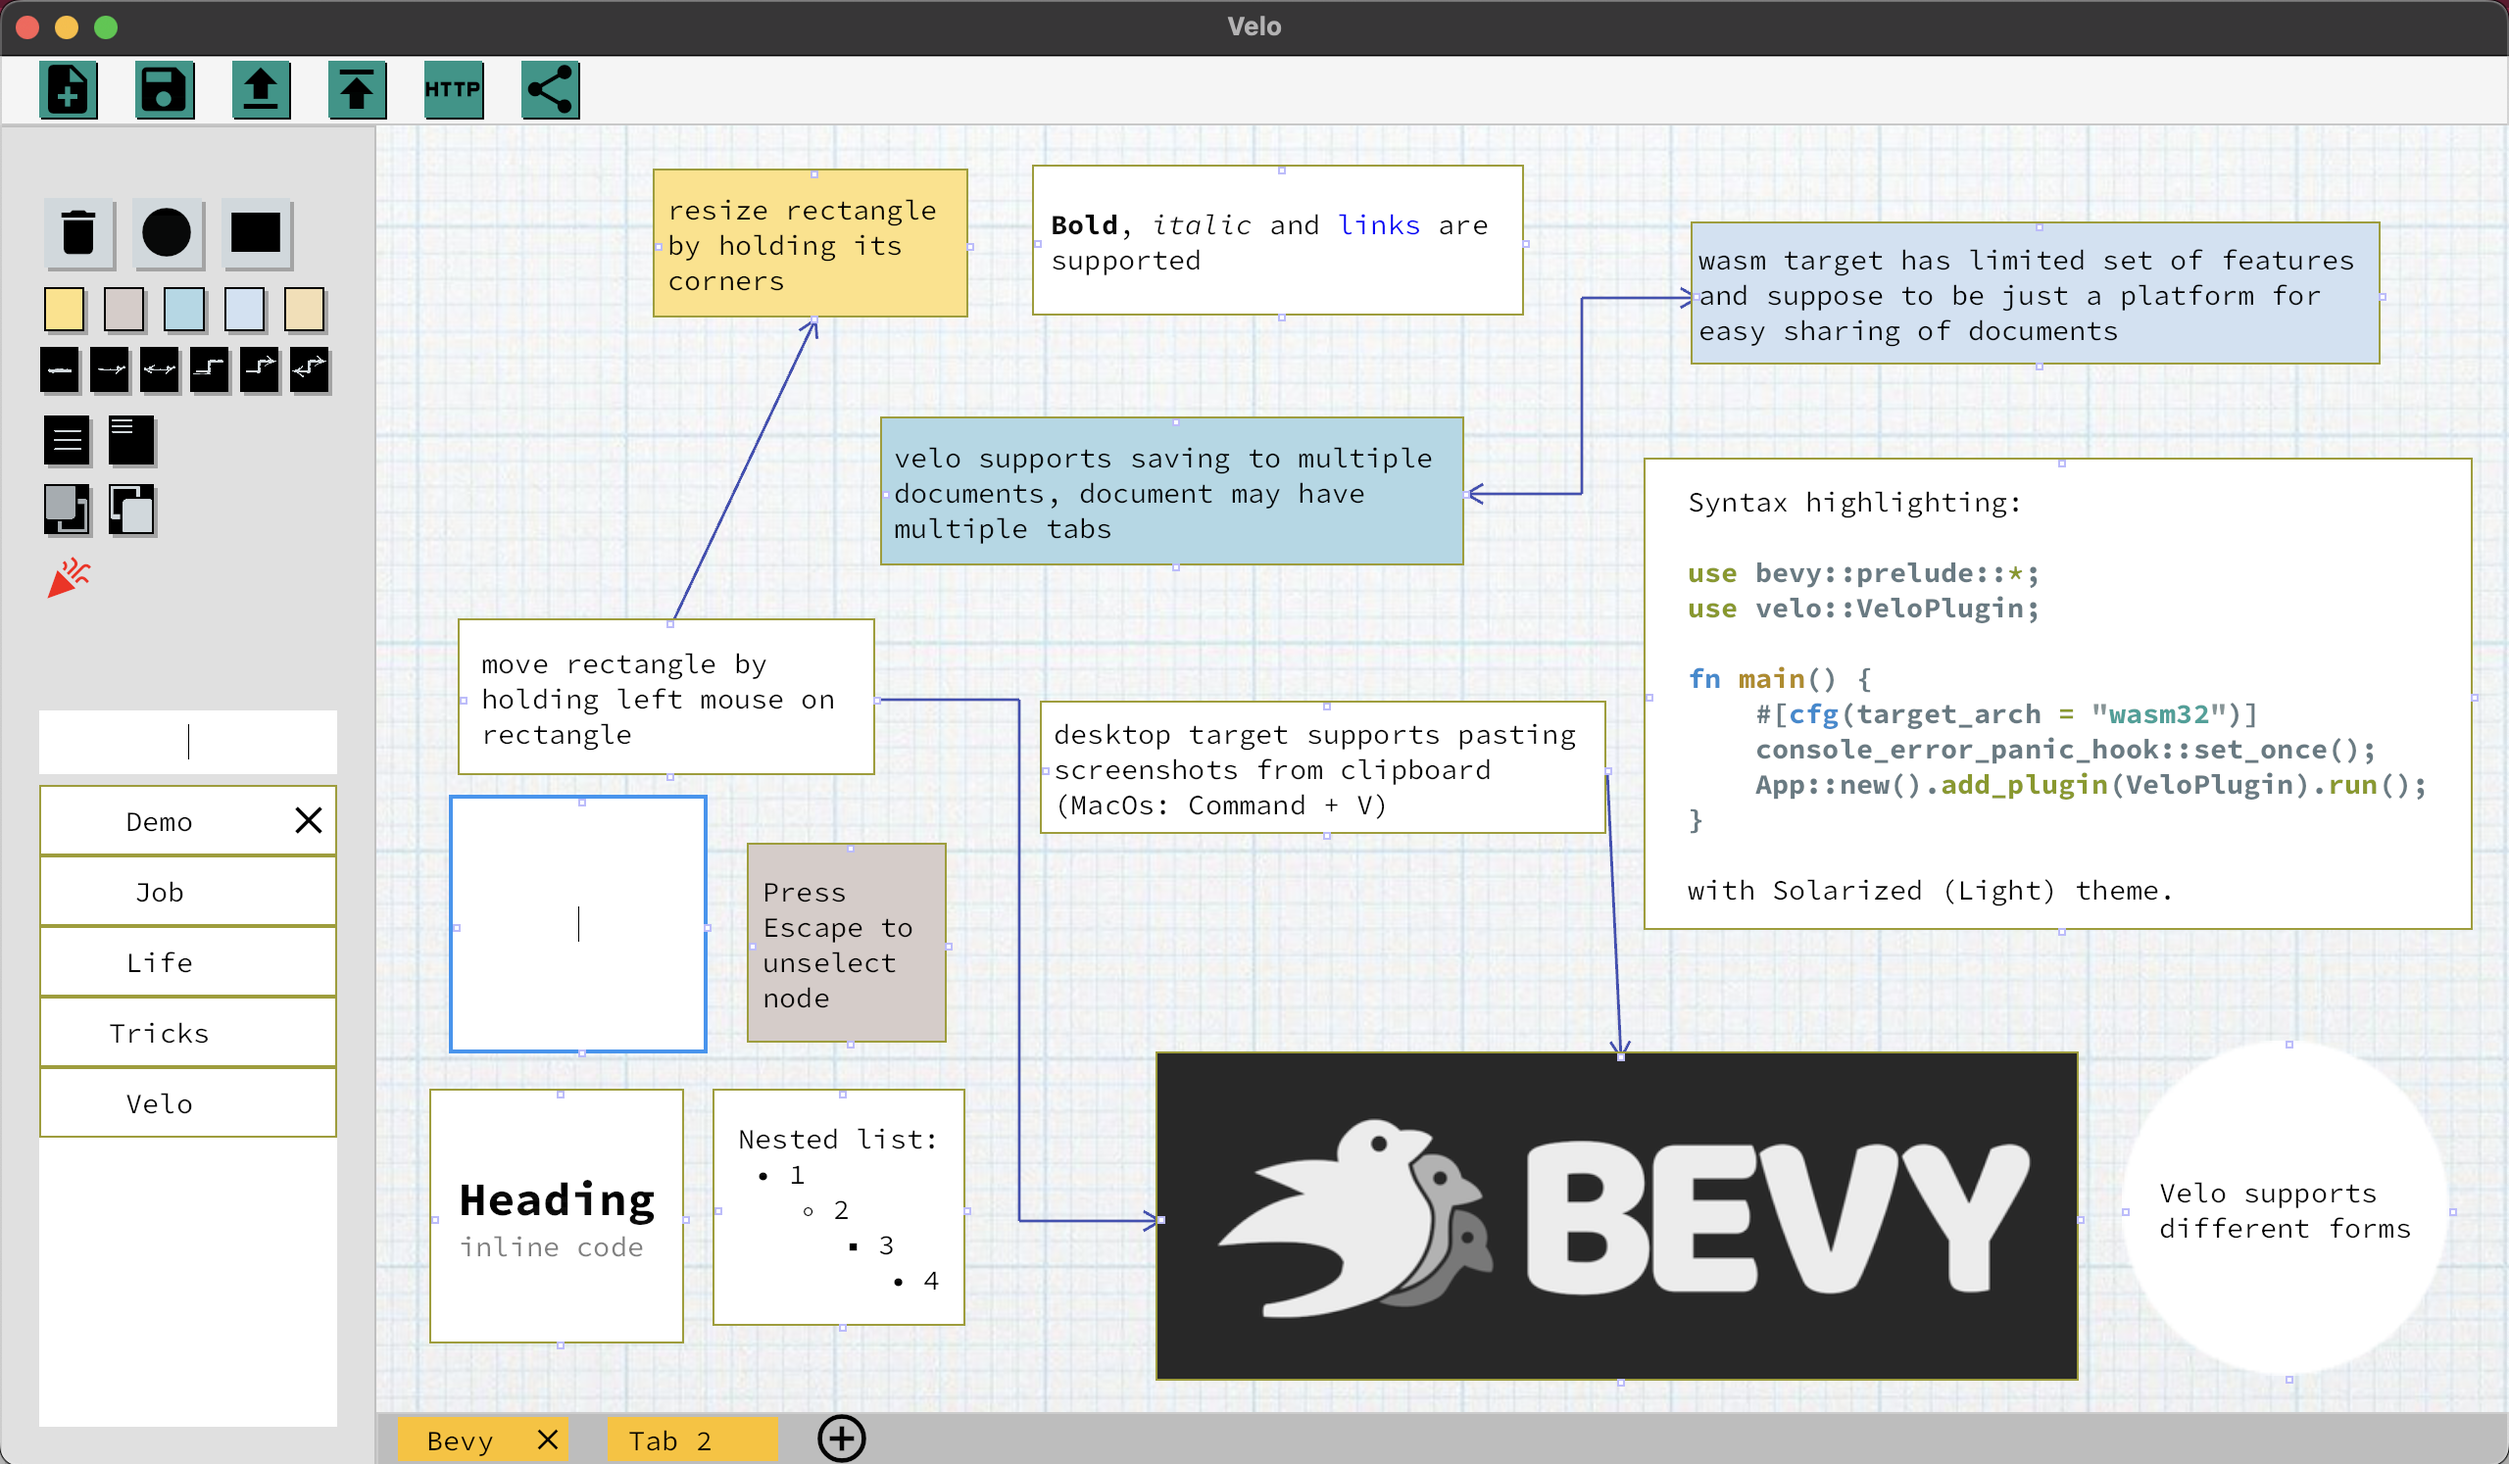
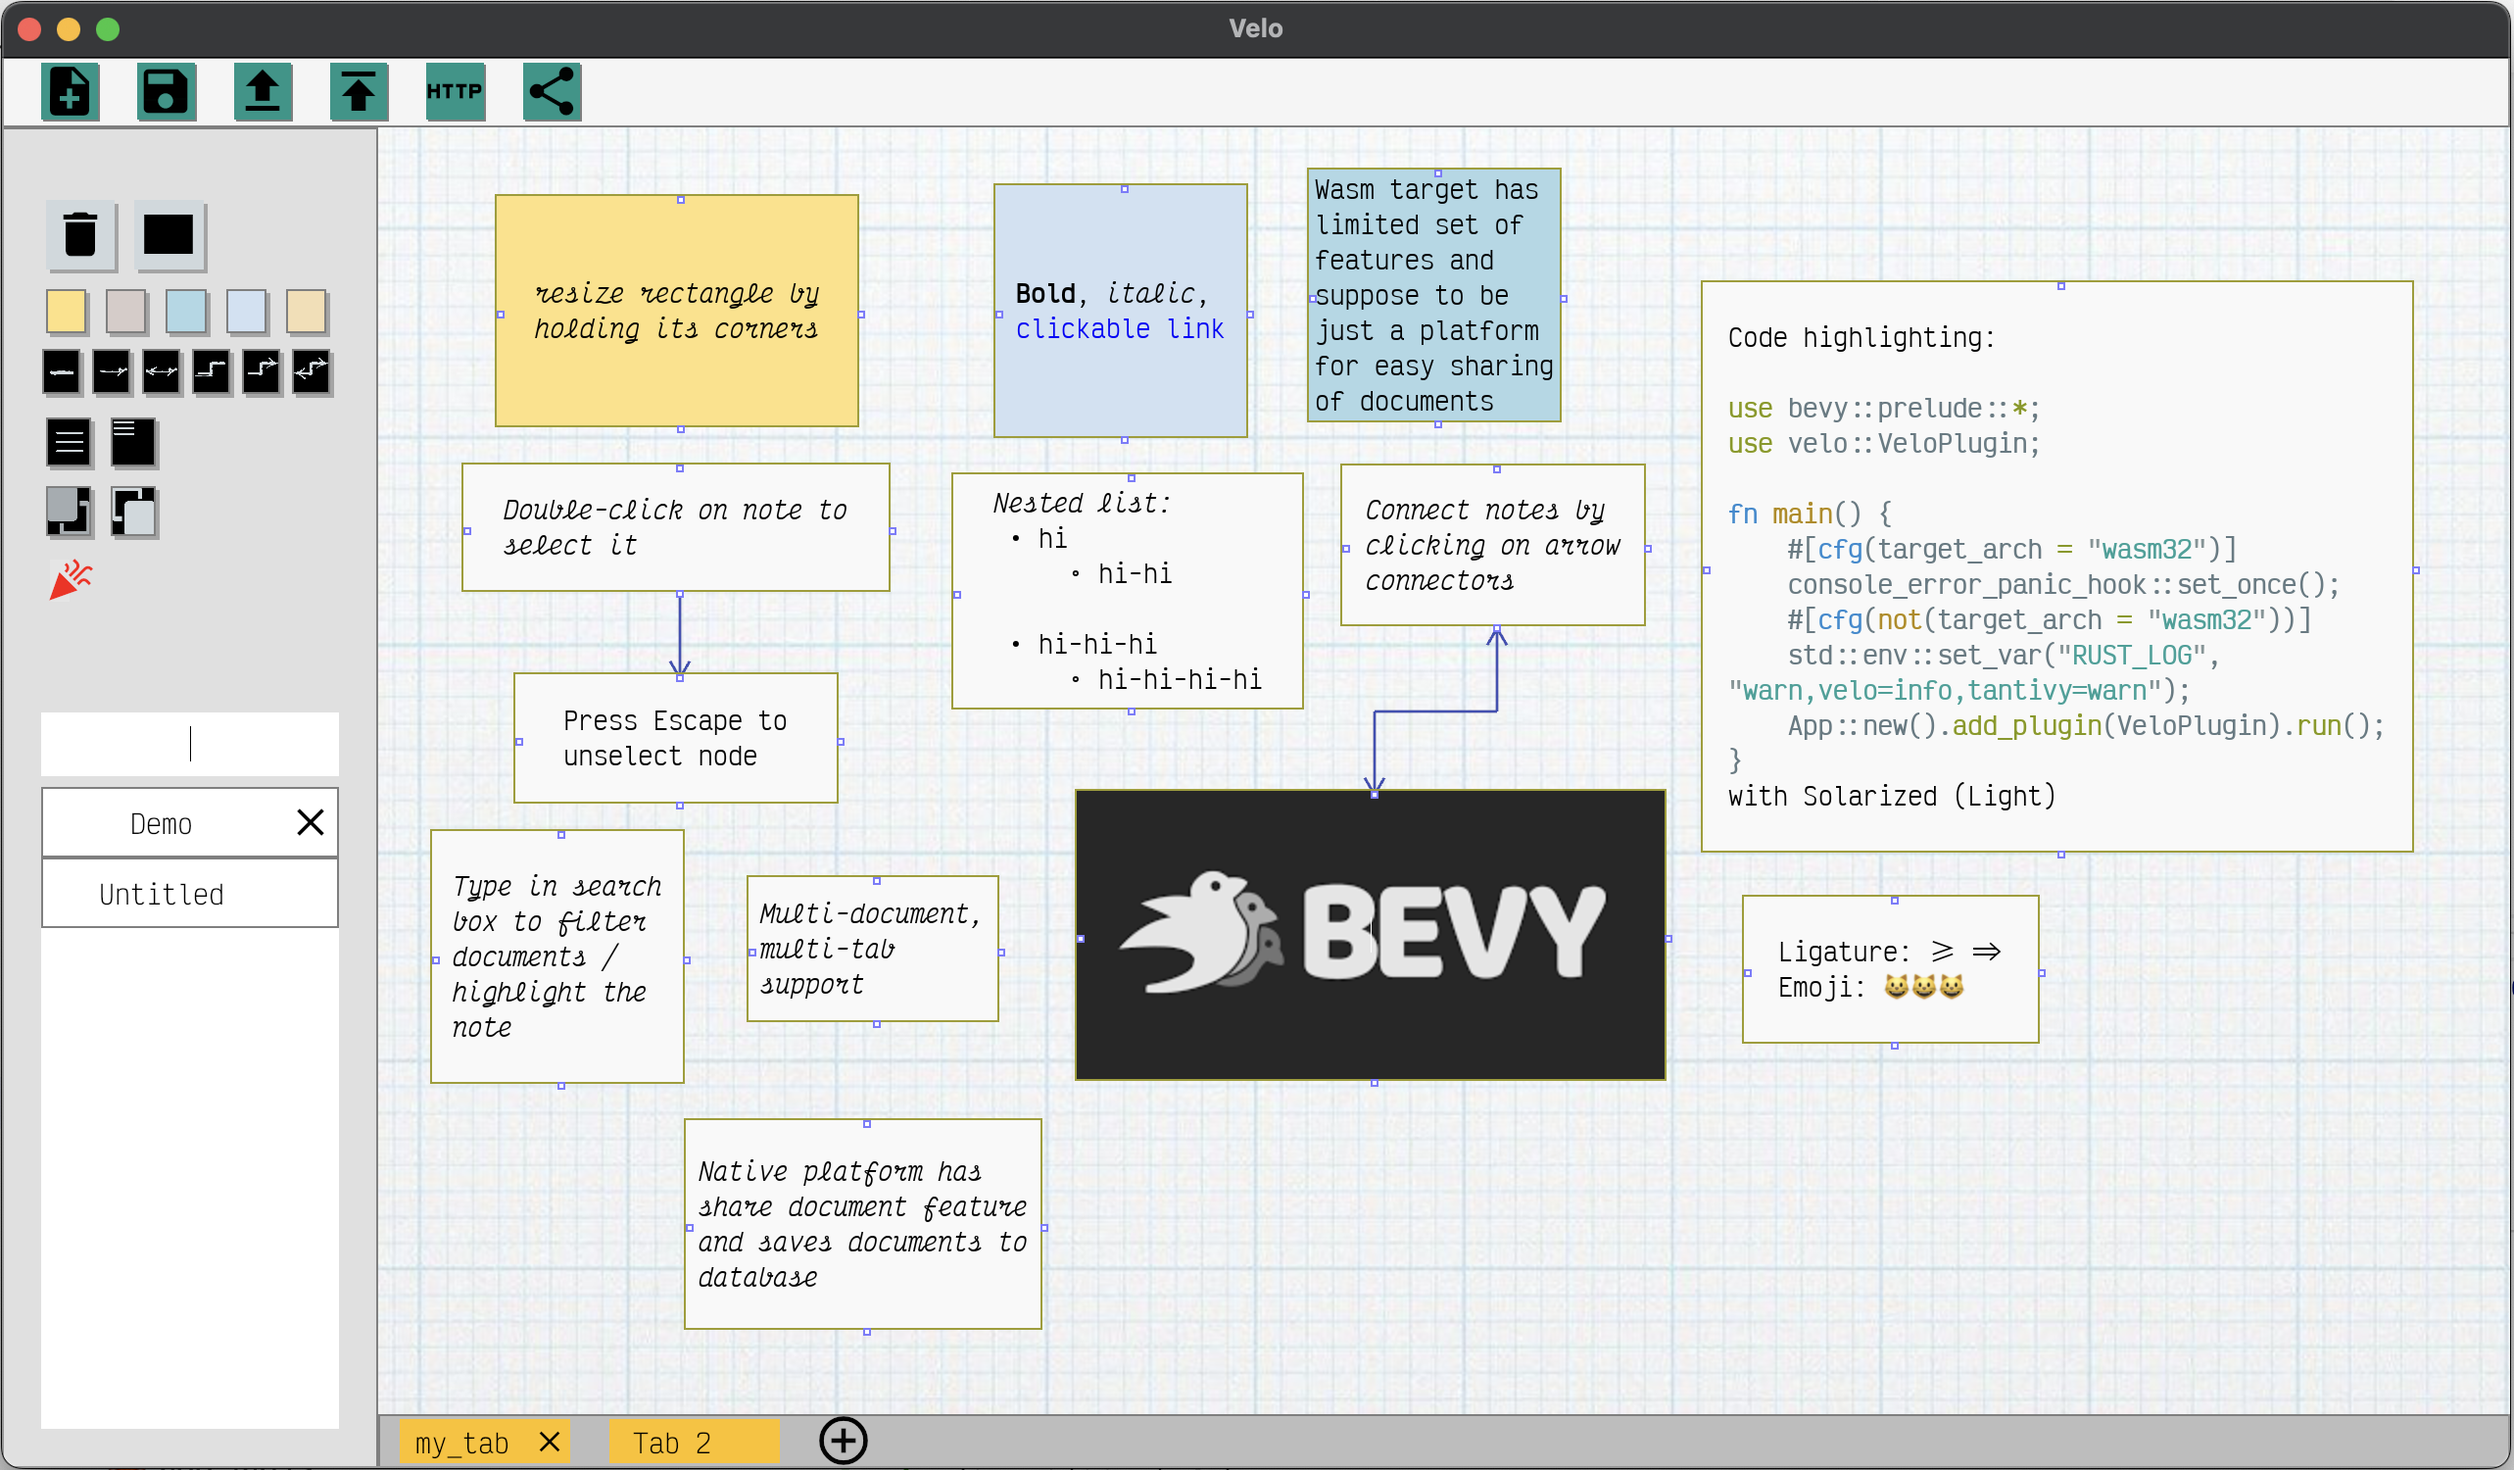
finish bevy_markdown refactoring

diff --git a/src/ui_plugin/ui_helpers/spawn_node.rs b/src/ui_plugin/ui_helpers/spawn_node.rs
@@ -88,6 +88,72 @@ pub fn spawn_node(
     commands
         .entity(button)
         .insert(Outline::all(outline_color, Val::Px(1.)));
+
+    let mut attrs = cosmic_text::Attrs::new();
+    attrs = attrs.family(cosmic_text::Family::Name(theme.font_name.as_str()));
+    attrs = attrs.color(bevy_color_to_cosmic(theme.font));
+    let (text, span_metadata) = match item_meta.is_active {
+        true => (CosmicText::OneStyle(item_meta.text.clone()), vec![]),
+        false => {
+            let markdown_theme = BevyMarkdownTheme {
+                code_theme: theme.code_theme.clone(),
+                code_default_lang: theme.code_default_lang.clone(),
+                link: bevy_color_to_cosmic(theme.link),
+                inline_code: bevy_color_to_cosmic(theme.inline_code),
+            };
+            let markdown_lines = generate_markdown_lines(BevyMarkdown {
+                text: item_meta.text.clone(),
+                attrs: AttrsOwned::new(attrs),
+                markdown_theme,
+            })
+            .expect("should handle markdown convertion");
+            (
+                CosmicText::MultiStyle(markdown_lines.lines),
+                markdown_lines.span_metadata,
+            )
+        }
+    };
+
+    let cosmic_edit_meta = CosmicEditMeta {
+        text,
+        font_system_handle: cosmic_font_handle,
+        text_pos: to_cosmic_text_pos(item_meta.text_pos.clone()),
+        size: Some((
+            convert_from_val_px(item_meta.size.0),
+            convert_from_val_px(item_meta.size.1),
+        )),
+        node: CosmicNode::Ui,
+        metrics: CosmicMetrics {
+            font_size: theme.font_size,
+            line_height: theme.line_height,
+            scale_factor,
+        },
+        bg: item_meta.bg_color,
+        bg_image: image,
+        readonly: !item_meta.is_active,
+        attrs: AttrsOwned::new(attrs),
+    };
+    let cosmic_edit = spawn_cosmic_edit(commands, cosmic_fonts, cosmic_edit_meta);
+    commands.entity(cosmic_edit).insert(RawText {
+        id: item_meta.id,
+        last_text: item_meta.text.clone(),
+    });
+    commands.entity(button).add_child(cosmic_edit);
+
+    match item_meta.is_active {
+        true => {
+            commands.insert_resource(ActiveEditor {
+                entity: Some(cosmic_edit),
+            });
+        }
+        false => {
+            commands.entity(cosmic_edit).insert(BevyMarkdownView {
+                id: item_meta.id,
+                span_metadata,
+            });
+        }
+    }
+
     let arrow_marker1 = commands
         .spawn((
             create_arrow_marker(50.0, 0., 0., 0.),
@@ -158,70 +224,6 @@ pub fn spawn_node(
     commands.entity(button).add_child(resize_marker3);
     commands.entity(button).add_child(resize_marker4);
 
-    let mut attrs = cosmic_text::Attrs::new();
-    attrs = attrs.family(cosmic_text::Family::Name(theme.font_name.as_str()));
-    attrs = attrs.color(bevy_color_to_cosmic(theme.font));
-    let (text, span_metadata) = match item_meta.is_active {
-        true => (CosmicText::OneStyle(item_meta.text.clone()), vec![]),
-        false => {
-            let markdown_theme = BevyMarkdownTheme {
-                code_theme: theme.code_theme.clone(),
-                code_default_lang: theme.code_default_lang.clone(),
-                link: bevy_color_to_cosmic(theme.link),
-                inline_code: bevy_color_to_cosmic(theme.inline_code),
-            };
-            let markdown_lines = generate_markdown_lines(BevyMarkdown {
-                text: item_meta.text.clone(),
-                attrs: AttrsOwned::new(attrs),
-                markdown_theme,
-            })
-            .expect("should handle markdown convertion");
-            (
-                CosmicText::MultiStyle(markdown_lines.lines),
-                markdown_lines.span_metadata,
-            )
-        }
-    };
-
-    let cosmic_edit_meta = CosmicEditMeta {
-        text,
-        font_system_handle: cosmic_font_handle,
-        text_pos: to_cosmic_text_pos(item_meta.text_pos.clone()),
-        size: Some((
-            convert_from_val_px(item_meta.size.0),
-            convert_from_val_px(item_meta.size.1),
-        )),
-        node: CosmicNode::Ui,
-        metrics: CosmicMetrics {
-            font_size: theme.font_size,
-            line_height: theme.line_height,
-            scale_factor,
-        },
-        bg: item_meta.bg_color,
-        bg_image: image,
-        readonly: !item_meta.is_active,
-        attrs: AttrsOwned::new(attrs),
-    };
-    let cosmic_edit = spawn_cosmic_edit(commands, cosmic_fonts, cosmic_edit_meta);
-    commands.entity(cosmic_edit).insert(RawText {
-        id: item_meta.id,
-        last_text: item_meta.text.clone(),
-    });
-    commands.entity(button).add_child(cosmic_edit);
-
-    match item_meta.is_active {
-        true => {
-            commands.insert_resource(ActiveEditor {
-                entity: Some(cosmic_edit),
-            });
-        }
-        false => {
-            commands.entity(cosmic_edit).insert(BevyMarkdownView {
-                id: item_meta.id,
-                span_metadata,
-            });
-        }
-    }
     commands.entity(top).add_child(button);
     top
 }

diff --git a/src/ui_plugin/systems/clickable_links.rs b/src/ui_plugin/systems/clickable_links.rs
@@ -40,13 +40,15 @@ pub fn clickable_links(
                                 let end = (x_start + glyph.x + glyph.w) / scale_factor;
                                 if pos.0 > start && pos.0 < end {
                                     let idx = glyph.metadata;
-                                    let text_span =
-                                        bevy_markdown_view.span_metadata.get(idx).unwrap();
-                                    if let Some(link) = text_span.link.clone() {
-                                        #[cfg(not(target_arch = "wasm32"))]
-                                        open::that(link.clone()).unwrap();
-                                        #[cfg(target_arch = "wasm32")]
-                                        open_url_in_new_tab(link.clone().as_str()).unwrap();
+                                    if let Some(text_span) =
+                                        bevy_markdown_view.span_metadata.get(idx)
+                                    {
+                                        if let Some(link) = text_span.link.clone() {
+                                            #[cfg(not(target_arch = "wasm32"))]
+                                            open::that(link.clone()).unwrap();
+                                            #[cfg(target_arch = "wasm32")]
+                                            open_url_in_new_tab(link.clone().as_str()).unwrap();
+                                        }
                                     }
                                 }
                             }

diff --git a/src/ui_plugin/systems/save.rs b/src/ui_plugin/systems/save.rs
@@ -128,14 +128,7 @@ pub fn save_tab(
     images: Res<Assets<Image>>,
     node_container_query: Query<(&Style, &Node), With<VeloNodeContainer>>,
     node_query: Query<
-        (
-            &VeloNode,
-            &UiImage,
-            &BackgroundColor,
-            &ZIndex,
-            &Parent,
-            &Style,
-        ),
+        (&VeloNode, &UiImage, &ZIndex, &Parent, &Style),
         (With<VeloNode>, Without<VeloNodeContainer>),
     >,
     arrows: Query<(&ArrowMeta, &Visibility), With<ArrowMeta>>,
@@ -167,14 +160,14 @@ pub fn save_tab(
     }
 
     let json_nodes = json["nodes"].as_array_mut().unwrap();
-    for (node, _, bg_color, z_index, parent, test_pos_style) in node_query.iter() {
-        for (raw_text, _) in text_query.iter() {
+    for (node, _, z_index, parent, test_pos_style) in node_query.iter() {
+        for (raw_text, cosmic_text) in text_query.iter() {
             if node.id == raw_text.id {
                 let (style, node_container): (&Style, &Node) =
                     node_container_query.get(parent.get()).unwrap();
                 let left = style.position.left;
                 let bottom = style.position.bottom;
-                let bg_color = bg_color.0;
+                let bg_color = cosmic_text.bg;
                 let z_index = match *z_index {
                     ZIndex::Local(v) => v,
                     _ => -1,

diff --git a/src/themes.rs b/src/themes.rs
@@ -51,7 +51,7 @@ pub fn velo_light() -> Theme {
     Theme {
         add_tab_bg: Color::rgb(1., 193.0 / 255.0, 7.0 / 255.0),
         arrow_btn_bg: Color::rgb(207.0 / 255.0, 216.0 / 255.0, 220.0 / 255.0),
-        arrow_connector: Color::BLUE.with_a(0.5),
+        arrow_connector: Color::BLUE.with_a(0.8),
         arrow: Color::rgb(63.0 / 255.0, 81.0 / 255.0, 181.0 / 255.0),
         bottom_panel_bg: Color::rgb(189.0 / 255.0, 189.0 / 255.0, 189.0 / 255.0),
         btn_border: Color::rgb(0.5, 0.5, 0.5),

diff --git a/Readme.md b/Readme.md
@@ -10,7 +10,7 @@ WebAssembly (wasm) target has a limited feature set. wasm target is best
 suited for quick document sharing and editing, currently only landscape
 mode is supported (tested on Chrome):
 
-  [<https://staffengineer.github.io/velo?document=https://gist.githubusercontent.com/StaffEngineer/d5a5c4c8543a520e8751a91c29e4f5f2/raw/38fb5f9b935a5c5dee35261989c1ef9f7e54abe3/velo.json>](https://staffengineer.github.io/velo?document=https://gist.githubusercontent.com/StaffEngineer/d5a5c4c8543a520e8751a91c29e4f5f2/raw/38fb5f9b935a5c5dee35261989c1ef9f7e54abe3/velo.json)
+  [<https://staffengineer.github.io/velo?document=https://gist.githubusercontent.com/StaffEngineer/3e95a2276790cf84b388734c921e46f4/raw/ac3d56c3e02919b5f5a3b598423ee9bbf40ad553/velo.json>](https://staffengineer.github.io/velo?document=https://gist.githubusercontent.com/StaffEngineer/3e95a2276790cf84b388734c921e46f4/raw/ac3d56c3e02919b5f5a3b598423ee9bbf40ad553/velo.json)
 
 ## Inspiration
 
@@ -55,6 +55,7 @@ enjoyable project to work on.
 - particles effect [native target only 🖥]
 - filter documents by text in nodes (fuzzy search) [native target only 🖥]
 - highlight nodes containing searched text [native target only 🖥]
+- ligature/emoji rendering support [emoji native target only 🖥]
 
 ## Run
 
